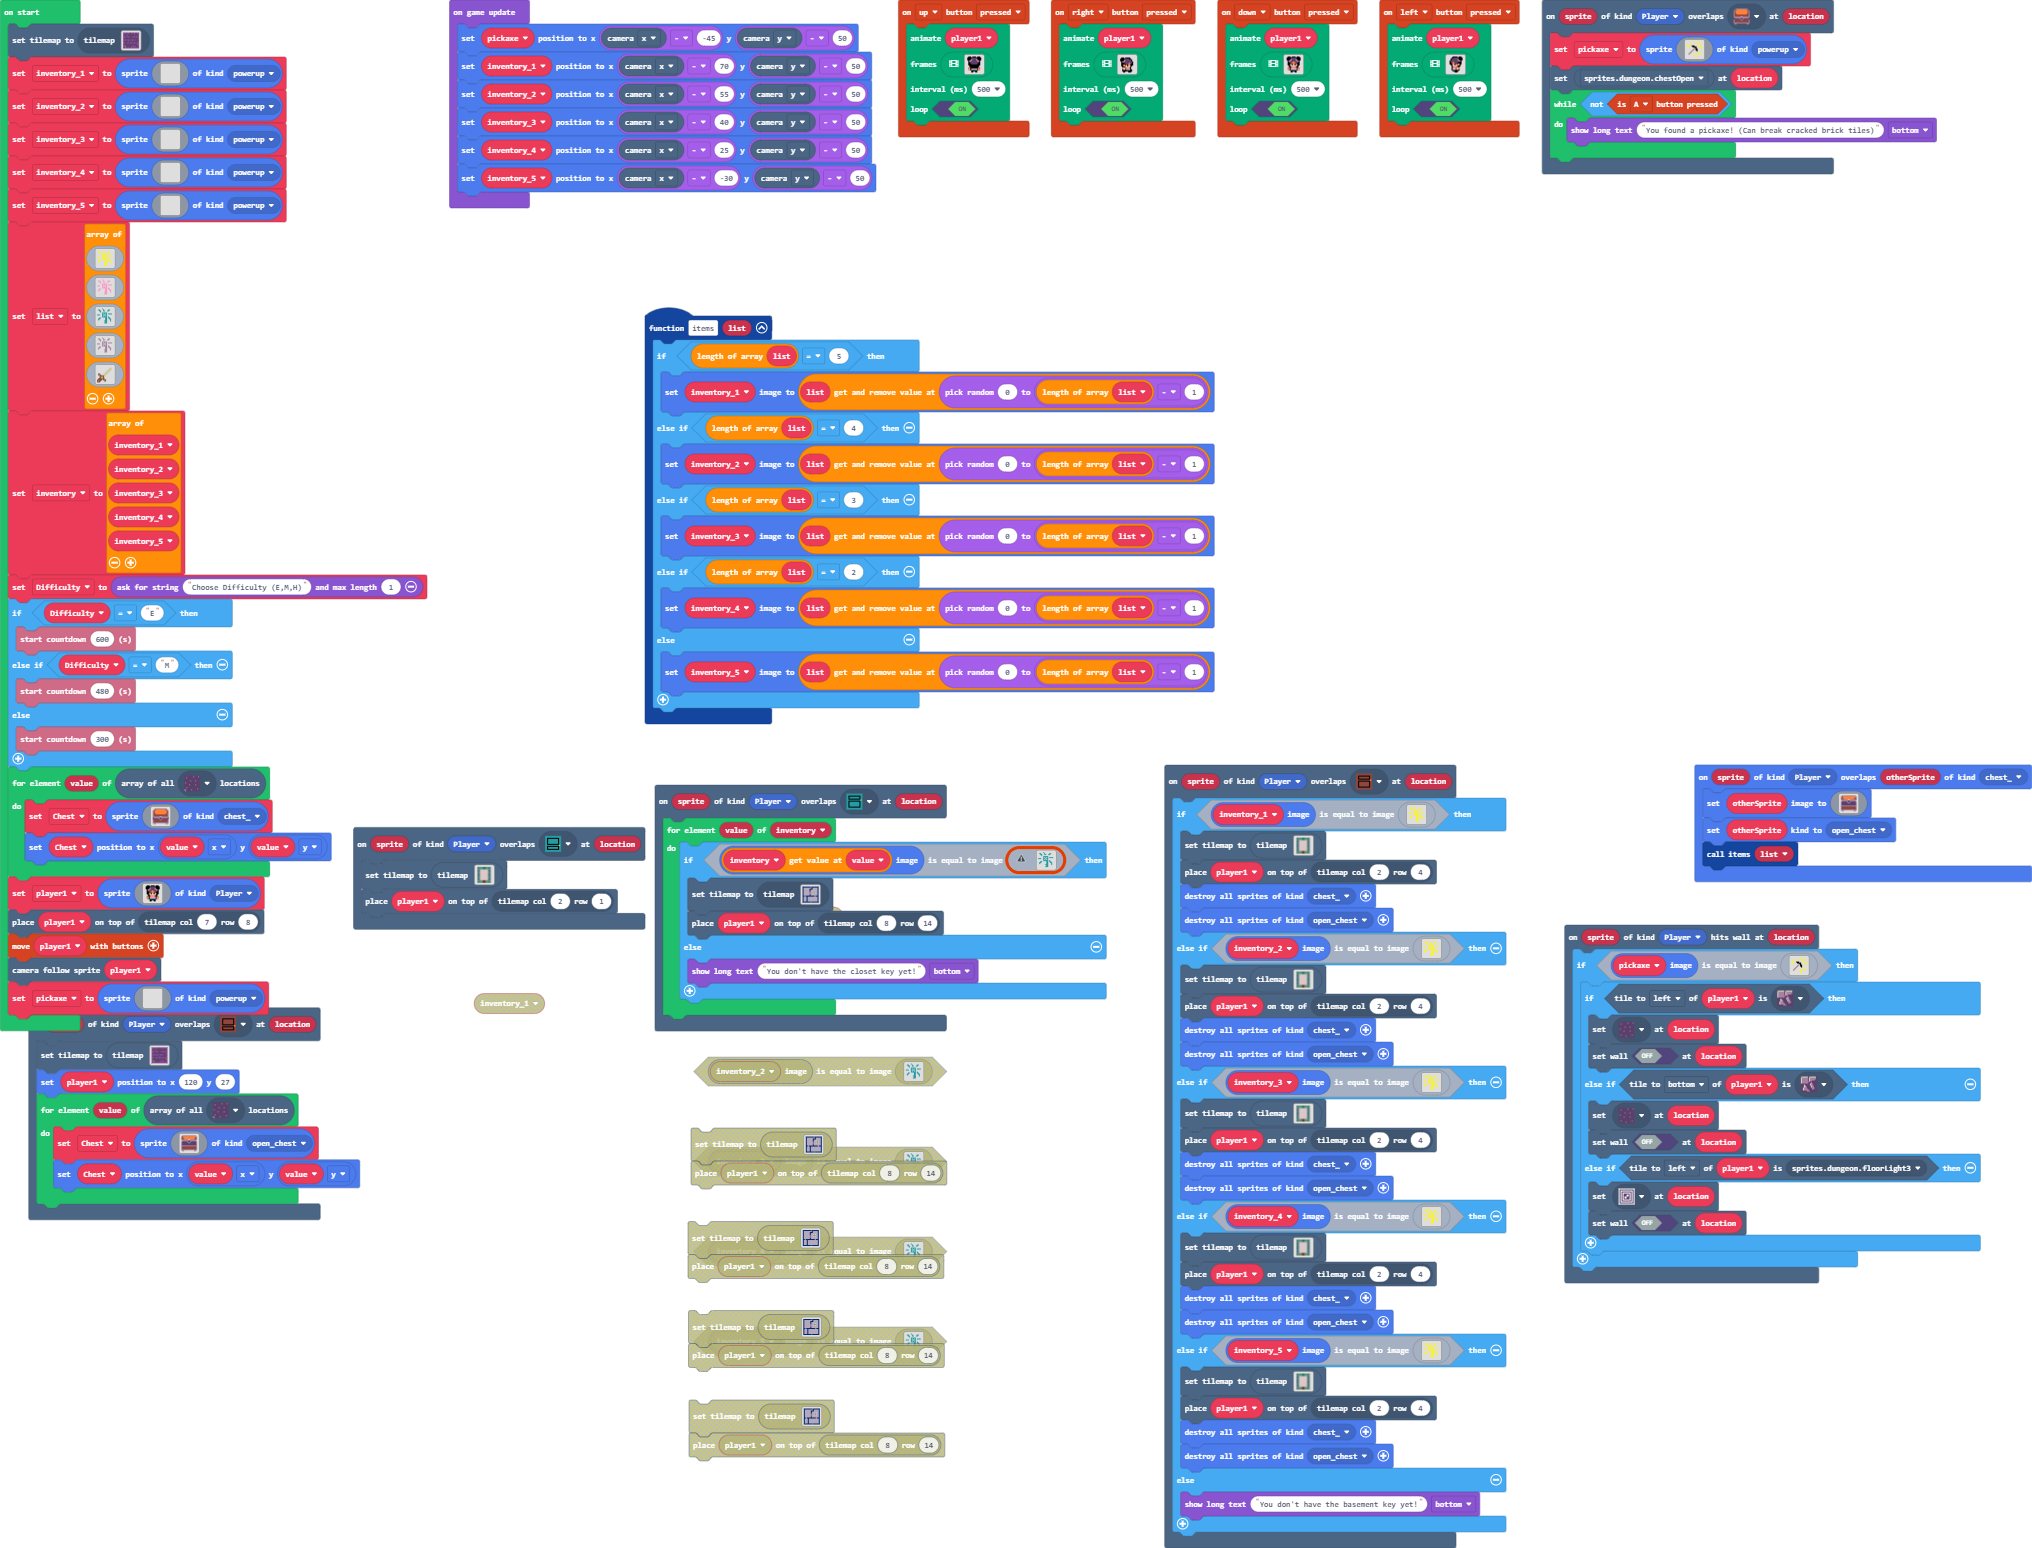
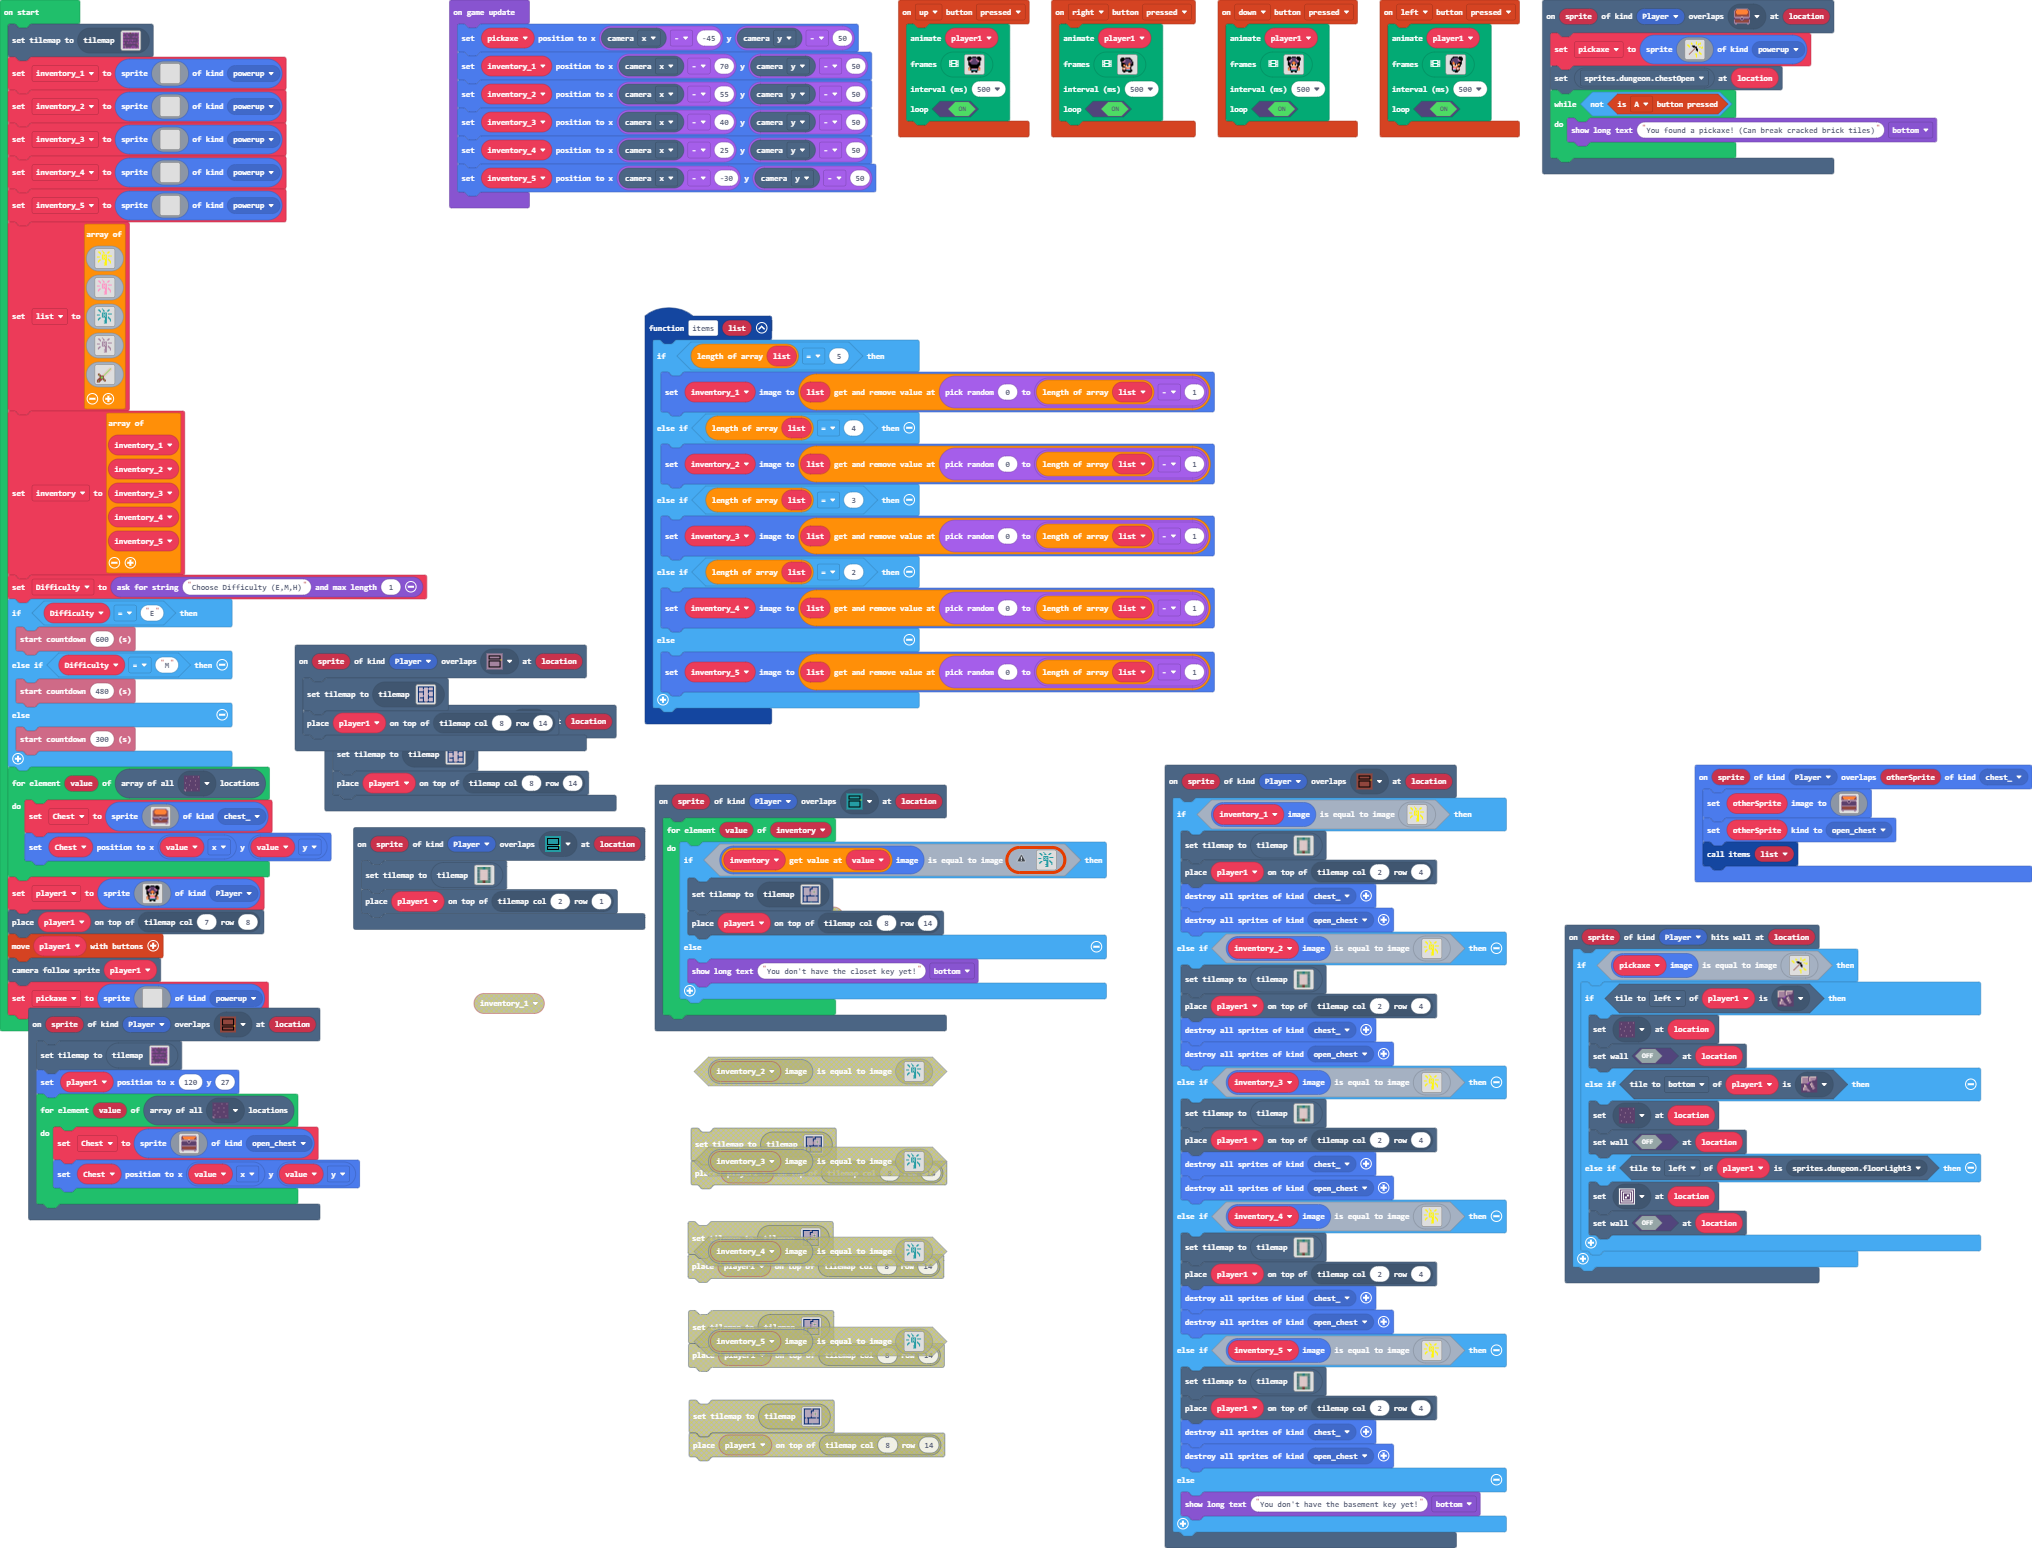
Update main.blocks, main.ts, tilemap.g.jres, tilemap.g.ts

Changed region(s): [[0.124, 0.4031, 0.31, 0.5271], [0.341, 0.7442, 0.4651, 0.8992], [0.0, 0.6512, 0.124, 0.6822]]

diff --git a/tilemap.g.ts b/tilemap.g.ts
@@ -32,6 +32,12 @@ namespace myTiles {
     export const tile15 = image.ofBuffer(hex``);
     //% fixedInstance jres blockIdentity=images._tile
     export const tile5 = image.ofBuffer(hex``);
+    //% fixedInstance jres blockIdentity=images._tile
+    export const tile16 = image.ofBuffer(hex``);
+    //% fixedInstance jres blockIdentity=images._tile
+    export const tile17 = image.ofBuffer(hex``);
+    //% fixedInstance jres blockIdentity=images._tile
+    export const tile18 = image.ofBuffer(hex``);
 
     helpers._registerFactory("tilemap", function(name: string) {
         switch(helpers.stringTrim(name)) {
@@ -253,25 +259,6 @@ namespace myTiles {
 . . . . . . . . . . . . . . . . 
 . . . . . . . . . . . . . . . . 
 `, [myTiles.transparency16], TileScale.Sixteen);
-            case "level3":
[1 lines of base64/hex data omitted]
-2 2 2 2 2 2 2 2 . 2 2 2 2 2 2 2 
-2 . . . . . . . . 2 . . . . . 2 
-2 . . . . . . 2 2 2 . . . . . 2 
-2 . . . . . . 2 . . . . . . . 2 
-2 . . . . . . 2 . . 2 2 2 . . 2 
-2 . . . . . . 2 . . 2 2 2 . . 2 
-2 . . . . . . 2 . . 2 2 2 . . 2 
-2 . . . . . . 2 . . . . . . . 2 
-2 . . . . . . 2 . . . . . . . 2 
-2 2 . 2 2 2 2 2 2 2 2 2 . 2 2 2 
-2 . . . 2 . . . . . . . . . . 2 
-2 . . . 2 . . . . . . . . . . 2 
-2 . . . 2 . . . . . . . . . . 2 
-2 . . . 2 . . . . . . . . . . 2 
-2 . . . 2 . . . . . . . . . . 2 
-2 2 2 2 2 2 2 2 . 2 2 2 2 2 2 2 
-`, [myTiles.transparency16,myTiles.tile5,myTiles.tile6,myTiles.tile9,myTiles.tile10,sprites.dungeon.floorLight2,myTiles.tile12,myTiles.tile13,myTiles.tile14,myTiles.tile15,sprites.builtin.forestTiles0,sprites.dungeon.floorDark3], TileScale.Sixteen);
             case "level14":
             case "level14":return tiles.createTilemap(hex`1000100000000000000000000000000000000000000000000000000000000000000000000000000000000000000000000000000000000000000000000000000000000000000000000000000000000000000000000000000000000000000000000000000000000000000000000000000000000000000000000000000000000000000000000000000000000000000000000000000000000000000000000000000000000000000000000000000000000000000000000000000000000000000000000000000000000000000000000000000000000000000000000000000000000000000000000000000000000000000000000000000000000000000000000000000000000000`, img`
 . . . . . . . . . . . . . . . . 
@@ -462,6 +449,82 @@ namespace myTiles {
 . . . . . . . . . . . . . . . . 
 . . . . . . . . . . . . . . . . 
 `, [myTiles.transparency16], TileScale.Sixteen);
+            case "level3":
[1 lines of base64/hex data omitted]
+2 2 2 2 2 2 2 . . 2 2 2 2 2 2 2 
+2 . . . . . . . . 2 . . . . . 2 
+2 . . . . . . 2 2 2 . . . . . 2 
+2 . . . . . . 2 . . . . . . . 2 
+2 . . . . . . 2 . . 2 2 2 . . 2 
+2 . . . . . . 2 . . 2 2 2 . . 2 
+2 . . . . . . 2 . . 2 2 2 . . 2 
+2 . . . . . . 2 . . . . . . . 2 
+2 . . . . . . 2 . . . . . . . 2 
+2 2 . 2 2 2 2 2 2 2 2 2 . 2 2 2 
+2 . . . 2 . . . . . . . . . . 2 
+2 . . . 2 . . . . . . . . . . 2 
+2 . . . 2 . . . . . . . . . . 2 
+2 . . . 2 . . . . . . . . . . 2 
+2 . . . 2 . . . . . . . . . . 2 
+2 2 2 2 2 2 2 2 . 2 2 2 2 2 2 2 
+`, [myTiles.transparency16,myTiles.tile5,myTiles.tile6,myTiles.tile9,myTiles.tile10,sprites.dungeon.floorLight2,myTiles.tile12,myTiles.tile13,myTiles.tile14,myTiles.tile15,sprites.builtin.forestTiles0,sprites.dungeon.floorDark3,myTiles.tile18], TileScale.Sixteen);
+            case "level24":
+            case "level24":return tiles.createTilemap(hex`1000100001010101010101010101010101010101010202020205020202020502020202010102020202050202020202020202020101020202020202020202050202020201010202020205020202020505050505010105050505050202020205020202020101020202020502020202050202020201010202020205020202020202020202010102020202050202020205020202020101020202020202020202050202020201010202020205020202020505050505010102050505050202020205020202020101020202020502020202050202020201010202020205020202020202020202010102020202050202020205020202020101010101010101030401010101010101`, img`
+2 2 2 2 2 2 2 2 2 2 2 2 2 2 2 2 
+2 . . . . 2 . . . . 2 . . . . 2 
+2 . . . . 2 . . . . . . . . . 2 
+2 . . . . . . . . . 2 . . . . 2 
+2 . . . . 2 . . . . 2 2 2 2 2 2 
+2 2 2 2 2 2 . . . . 2 . . . . 2 
+2 . . . . 2 . . . . 2 . . . . 2 
+2 . . . . 2 . . . . . . . . . 2 
+2 . . . . 2 . . . . 2 . . . . 2 
+2 . . . . . . . . . 2 . . . . 2 
+2 . . . . 2 . . . . 2 2 2 2 2 2 
+2 . 2 2 2 2 . . . . 2 . . . . 2 
+2 . . . . 2 . . . . 2 . . . . 2 
+2 . . . . 2 . . . . . . . . . 2 
+2 . . . . 2 . . . . 2 . . . . 2 
+2 2 2 2 2 2 2 . . 2 2 2 2 2 2 2 
+`, [myTiles.transparency16,myTiles.tile6,myTiles.tile3,myTiles.tile16,myTiles.tile17,myTiles.tile11], TileScale.Sixteen);
+            case "level25":
+            case "level25":return tiles.createTilemap(hex`1000100000000000000000000000000000000000000000000000000000000000000000000000000000000000000000000000000000000000000000000000000000000000000000000000000000000000000000000000000000000000000000000000000000000000000000000000000000000000000000000000000000000000000000000000000000000000000000000000000000000000000000000000000000000000000000000000000000000000000000000000000000000000000000000000000000000000000000000000000000000000000000000000000000000000000000000000000000000000000000000000000000000000000000000000000000000000`, img`
+. . . . . . . . . . . . . . . . 
+. . . . . . . . . . . . . . . . 
+. . . . . . . . . . . . . . . . 
+. . . . . . . . . . . . . . . . 
+. . . . . . . . . . . . . . . . 
+. . . . . . . . . . . . . . . . 
+. . . . . . . . . . . . . . . . 
+. . . . . . . . . . . . . . . . 
+. . . . . . . . . . . . . . . . 
+. . . . . . . . . . . . . . . . 
+. . . . . . . . . . . . . . . . 
+. . . . . . . . . . . . . . . . 
+. . . . . . . . . . . . . . . . 
+. . . . . . . . . . . . . . . . 
+. . . . . . . . . . . . . . . . 
+. . . . . . . . . . . . . . . . 
+`, [myTiles.transparency16], TileScale.Sixteen);
+            case "level26":
+            case "level26":return tiles.createTilemap(hex`1000100000000000000000000000000000000000000000000000000000000000000000000000000000000000000000000000000000000000000000000000000000000000000000000000000000000000000000000000000000000000000000000000000000000000000000000000000000000000000000000000000000000000000000000000000000000000000000000000000000000000000000000000000000000000000000000000000000000000000000000000000000000000000000000000000000000000000000000000000000000000000000000000000000000000000000000000000000000000000000000000000000000000000000000000000000000000`, img`
+. . . . . . . . . . . . . . . . 
+. . . . . . . . . . . . . . . . 
+. . . . . . . . . . . . . . . . 
+. . . . . . . . . . . . . . . . 
+. . . . . . . . . . . . . . . . 
+. . . . . . . . . . . . . . . . 
+. . . . . . . . . . . . . . . . 
+. . . . . . . . . . . . . . . . 
+. . . . . . . . . . . . . . . . 
+. . . . . . . . . . . . . . . . 
+. . . . . . . . . . . . . . . . 
+. . . . . . . . . . . . . . . . 
+. . . . . . . . . . . . . . . . 
+. . . . . . . . . . . . . . . . 
+. . . . . . . . . . . . . . . . 
+. . . . . . . . . . . . . . . . 
+`, [myTiles.transparency16], TileScale.Sixteen);
         }
         return null;
     })
@@ -499,6 +562,12 @@ namespace myTiles {
             case "tile15":return tile15;
             case "myTile3":
             case "tile5":return tile5;
+            case "myTile14":
+            case "tile16":return tile16;
+            case "myTile15":
+            case "tile17":return tile17;
+            case "myTile16":
+            case "tile18":return tile18;
         }
         return null;
     })

diff --git a/main.ts b/main.ts
@@ -355,6 +355,10 @@ scene.onOverlapTile(SpriteKind.Player, sprites.dungeon.chestClosed, function (sp
         game.showLongText("You found a pickaxe! (Can break cracked brick tiles)", DialogLayout.Bottom)
     }
 })
+scene.onOverlapTile(SpriteKind.Player, assets.tile`myTile16`, function (sprite, location) {
+    tiles.setCurrentTilemap(tilemap`level24`)
+    tiles.placeOnTile(player1, tiles.getTileLocation(8, 14))
+})
 controller.right.onEvent(ControllerButtonEvent.Pressed, function () {
     animation.runImageAnimation(
     player1,
@@ -413,6 +417,10 @@ controller.right.onEvent(ControllerButtonEvent.Pressed, function () {
     500,
     true
     )
+})
+scene.onOverlapTile(SpriteKind.Player, assets.tile`myTile8`, function (sprite, location) {
+    tiles.setCurrentTilemap(tilemap`level24`)
+    tiles.placeOnTile(player1, tiles.getTileLocation(8, 14))
 })
 controller.down.onEvent(ControllerButtonEvent.Pressed, function () {
     animation.runImageAnimation(
